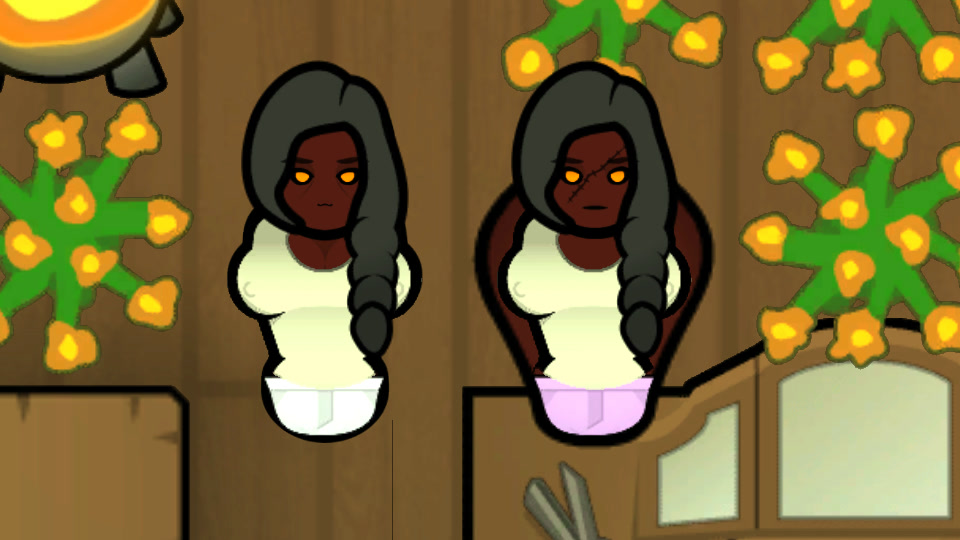
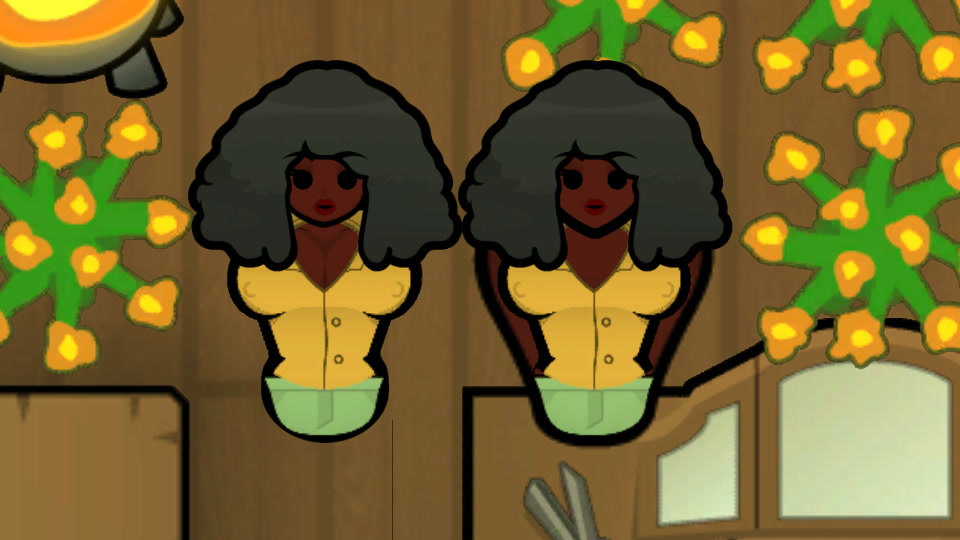
Gallery shot 2 v23 capture: crop, labels, subtitle (ticket 222f)

diff --git a/STATUS.md b/STATUS.md
@@ -20,7 +20,7 @@ published: no
 tested_on: "2026-11-08 pickle 5cb9ad6"
 code_review_sha: 5cb9ad6c9cbf9e51ae50f01c7bc66274c9ebc2c6
 remaining:
-  - "shot 2 v23 (178082f): ticket d548 DONE exit 0, capture read: both pawns bore a beard (v22 dropped the v21b beard none), beard none put back on Miel and Mira; refiled ticket 222f (label gallery shot 2 v23 beard none 178082f, map wsl-deps.gallery.map, evidence Inbox/gallery-v27). On RUN_DONE: open the capture, crop (x 500 y 290, 960x540), burn subtitle, rescore, then send all five images in one message."
+  - "shot 2 v23 (178082f): ticket d548 DONE exit 0, capture read: both pawns bore a beard (v22 dropped the v21b beard none), beard none put back on Miel and Mira; ticket 222f DONE 2026-11-17 (exit 0, 1 passed), capture read: no beard, identical Hulk Female pair, right pawn (WDI) wider with arms and hips visible, left vanilla; crop 960x540 x 500 y 290 to Art/Gallery-clean, labels vanilla body (left) and WDI body (right) plus subtitle burned into Art/Gallery, opened, readable; evidence Inbox/gallery-v27 deleted. Next: rescore shot 2 (score-gallery), redo shot 6 (score 3 on ticket 7717 still stands as REDO), then send all five images in one message."
   - "owner 2026-11-17: no verdict on any gallery image before ALL images are ready (plan 2 included); then send the five subtitled images in one message. No ticket open. Open design asks, no code before 1.0.0 is out: sex gene and body texture resolver in Docs/SEX-GENDER-DESIGN.md (ships 1.1.0), BiB_Furry for CoKK (1.1.0, defName provisional), sex Pickle steps are BiB steps (PiT deleted its copies), fallback order of missing textures to confirm, Biotech Body_* genes to check, Neutral profile word open. Peers told: SaB, PiT, CoKK, VTW (build mounted, e5ab059)."
   - "shot 2 v22 (owner 2026-11-17 via PiT relay: prefers the SaB look, only the genes differ between the two pawns): clone pair Miel (BiB_BodyWdi) and Mira (BiB_BodyVanilla) now both copy the Miel canon of SanctuaryBacklot APPARENCES-CANON.md (Female_AverageWide, Hulk, Roo_Royal_NaturalcurlsHD, CollarShirt (196,150,80), Pants (140,160,120), kit smile, MouthLipsBig, BrowTriangle, LidFlirty, Empathetic, SkinEyeshadow), BiB_FaceNiceFA removed, SacredGrass body tattoo dropped (TattooDef not in the gallery map); supersedes v21 Nice FA; ticket d548 queued 2026-11-17 (gallery-v26; e2f9 red: step also-wears-dyed missing, added by PiT 5f6efc00; ecb3 red: kit smile set EyeNormal, kit removed 803b963); on RUN_DONE read, crop, redo the two labels and subtitle, rescore"
   - "ticket 7717 DONE 2026-11-17 (exit 0, 1 passed, shot 6 v23, Miel facing South): capture read, Miel face now seen, ground reads stone not water, crop 1280x720 x 230 y 190 scaled 960x540 and subtitle tried; score-gallery on the picture: image 3, adequacy 2.5, understanding 4, decoration 3 => REDO (rule: any note under 4). Seen: four pawns in a flat row all facing South, Soren neutral mouth (pack face, plan says all smile), Soren carries WoodLog not the planned Torch, dog standing not lying, no dusk light at 17:00, Brazier and StylingStation out of frame or absent, ground bare grey, pond not readable. Next: Art/Gallery*/6-* and Inbox/gallery-v23 deleted, recompose shot 6 (vary facings, dusk light, denser decor in frame, Soren smile, pond readable), then shotlist v21 via write-shotlist; clone/Ryu no longer in scene: shotlist header line 6 still lists five pawns (Quill, Ryu), to rewrite"
